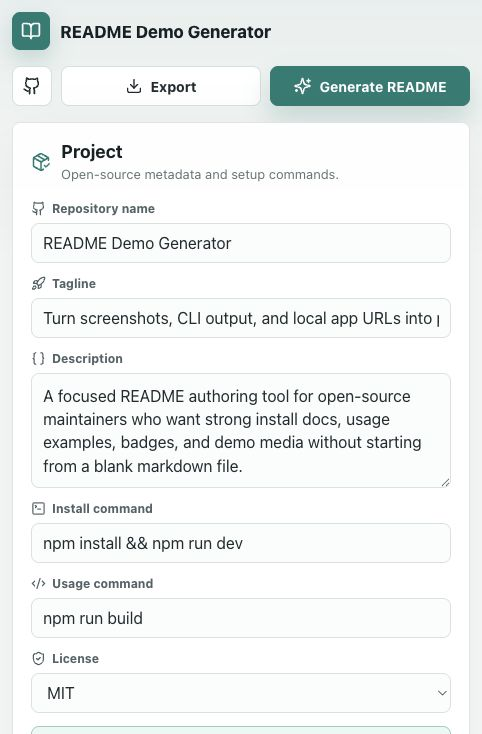
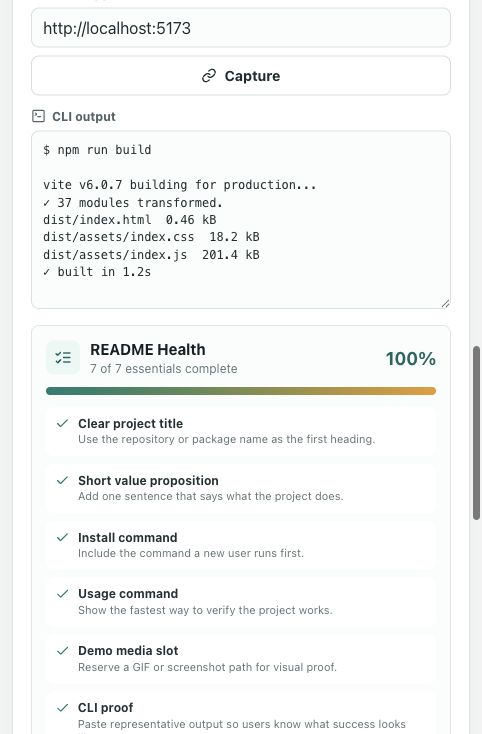
Add README health checks

diff --git a/src/styles.css b/src/styles.css
@@ -54,6 +54,8 @@ button {
 .badge,
 .toggle,
 .urlRow,
+.healthHeader,
+.checkList li,
 .previewToolbar,
 .smallButton,
 .primaryButton,
@@ -365,6 +367,110 @@ select:focus {
 .cliBlock {
   font-family: "SFMono-Regular", Consolas, "Liberation Mono", monospace;
   font-size: 12px;
+}
+
+.healthPanel {
+  margin-top: 16px;
+  padding: 14px;
+  border: 1px solid #dce5e2;
+  border-radius: 8px;
+  background: #fbfcfc;
+}
+
+.healthHeader {
+  gap: 10px;
+  justify-content: space-between;
+}
+
+.healthIcon {
+  display: grid;
+  flex: 0 0 auto;
+  width: 34px;
+  height: 34px;
+  place-items: center;
+  color: #0d655d;
+  border-radius: 8px;
+  background: #eaf7f4;
+}
+
+.healthHeader div {
+  flex: 1;
+  min-width: 0;
+}
+
+.healthHeader h3 {
+  margin: 0;
+  color: #162023;
+  font-size: 15px;
+  line-height: 1.2;
+}
+
+.healthHeader p {
+  margin: 3px 0 0;
+  color: #66777a;
+  font-size: 12px;
+}
+
+.healthHeader strong {
+  color: #0d655d;
+  font-size: 18px;
+}
+
+.scoreTrack {
+  overflow: hidden;
+  height: 8px;
+  margin: 12px 0;
+  border-radius: 999px;
+  background: #e7eeec;
+}
+
+.scoreTrack span {
+  display: block;
+  height: 100%;
+  border-radius: inherit;
+  background: linear-gradient(90deg, #117c72, #e99b2b);
+  transition: width 180ms ease;
+}
+
+.checkList {
+  display: grid;
+  gap: 8px;
+  padding: 0;
+  margin: 0;
+  list-style: none;
+}
+
+.checkList li {
+  align-items: flex-start;
+  gap: 8px;
+  padding: 9px;
+  border-radius: 8px;
+  background: #ffffff;
+}
+
+.checkList strong,
+.checkList small {
+  display: block;
+}
+
+.checkList strong {
+  color: #223033;
+  font-size: 12px;
+}
+
+.checkList small {
+  margin-top: 2px;
+  color: #657477;
+  font-size: 11px;
+  line-height: 1.35;
+}
+
+.checkPassed {
+  color: #117c72;
+}
+
+.checkMissing {
+  color: #b86812;
 }
 
 .previewColumn {

diff --git a/src/main.tsx b/src/main.tsx
@@ -1,6 +1,7 @@
 import React, { useMemo, useState } from "react";
 import { createRoot } from "react-dom/client";
 import {
+  AlertCircle,
   BadgeCheck,
   BookOpen,
   Braces,
@@ -14,6 +15,7 @@ import {
   ImagePlus,
   Laptop,
   Link,
+  ListChecks,
   MonitorPlay,
   PackageCheck,
   Rocket,
@@ -43,6 +45,12 @@ type ProjectState = {
 type Screenshot = {
   name: string;
   url: string;
+};
+
+type ReadmeCheck = {
+  label: string;
+  passed: boolean;
+  detail: string;
 };
 
 const initialState: ProjectState = {
@@ -139,6 +147,46 @@ ${project.license}
 `;
 }
 
+function getReadmeChecks(project: ProjectState, screenshots: Screenshot[]): ReadmeCheck[] {
+  return [
+    {
+      label: "Clear project title",
+      passed: project.name.trim().length >= 3,
+      detail: "Use the repository or package name as the first heading.",
+    },
+    {
+      label: "Short value proposition",
+      passed: project.tagline.trim().length >= 18,
+      detail: "Add one sentence that says what the project does.",
+    },
+    {
+      label: "Install command",
+      passed: project.installCommand.trim().length > 0,
+      detail: "Include the command a new user runs first.",
+    },
+    {
+      label: "Usage command",
+      passed: project.usageCommand.trim().length > 0,
+      detail: "Show the fastest way to verify the project works.",
+    },
+    {
+      label: "Demo media slot",
+      passed: screenshots.length > 0 || project.includeGifSlot,
+      detail: "Reserve a GIF or screenshot path for visual proof.",
+    },
+    {
+      label: "CLI proof",
+      passed: project.cliOutput.trim().length >= 24,
+      detail: "Paste representative output so users know what success looks like.",
+    },
+    {
+      label: "Open-source finish",
+      passed: project.includeBadges && project.includeContributing && Boolean(project.license),
+      detail: "Badges, contributing notes, and a license make the README release-ready.",
+    },
+  ];
+}
+
 function Field({
   label,
   children,
@@ -186,6 +234,9 @@ function App() {
   const [screenshots, setScreenshots] = useState<Screenshot[]>([]);
   const [copied, setCopied] = useState(false);
   const markdown = useMemo(() => generateMarkdown(project, screenshots), [project, screenshots]);
+  const readmeChecks = useMemo(() => getReadmeChecks(project, screenshots), [project, screenshots]);
+  const passedChecks = readmeChecks.filter((check) => check.passed).length;
+  const readmeScore = Math.round((passedChecks / readmeChecks.length) * 100);
 
   function update<K extends keyof ProjectState>(key: K, value: ProjectState[K]) {
     setProject((current) => ({ ...current, [key]: value }));
@@ -349,13 +400,40 @@ function App() {
               onChange={(event) => update("cliOutput", event.target.value)}
             />
           </Field>
+
+          <div className="healthPanel" aria-label="README health checks">
+            <div className="healthHeader">
+              <span className="healthIcon">
+                <ListChecks size={18} />
+              </span>
+              <div>
+                <h3>README Health</h3>
+                <p>{passedChecks} of {readmeChecks.length} essentials complete</p>
+              </div>
+              <strong>{readmeScore}%</strong>
+            </div>
+            <div className="scoreTrack" aria-hidden="true">
+              <span style={{ width: `${readmeScore}%` }} />
+            </div>
+            <ul className="checkList">
+              {readmeChecks.map((check) => (
+                <li className={check.passed ? "checkPassed" : "checkMissing"} key={check.label}>
+                  {check.passed ? <Check size={15} /> : <AlertCircle size={15} />}
+                  <span>
+                    <strong>{check.label}</strong>
+                    <small>{check.detail}</small>
+                  </span>
+                </li>
+              ))}
+            </ul>
+          </div>
         </section>
 
         <section className="previewColumn">
           <div className="previewToolbar">
             <div>
               <h2>Live README</h2>
-              <p>{markdown.split("\n").length} markdown lines ready</p>
+              <p>{markdown.split("\n").length} markdown lines ready · {readmeScore}% health</p>
             </div>
             <button className="secondaryButton compact" type="button" onClick={copyMarkdown}>
               <Clipboard size={16} />

diff --git a/README.md b/README.md
@@ -17,6 +17,7 @@ Drop in screenshots, CLI output, or a local app URL, and generate a polished Git
 - CLI output capture area formatted as markdown
 - Local app URL field with a capture note action
 - Live GitHub-style README preview
+- README health checks for title, tagline, install, usage, demo media, CLI proof, badges, contributing notes, and license
 - Copy and download actions for `README.md`
 
 ## Installation